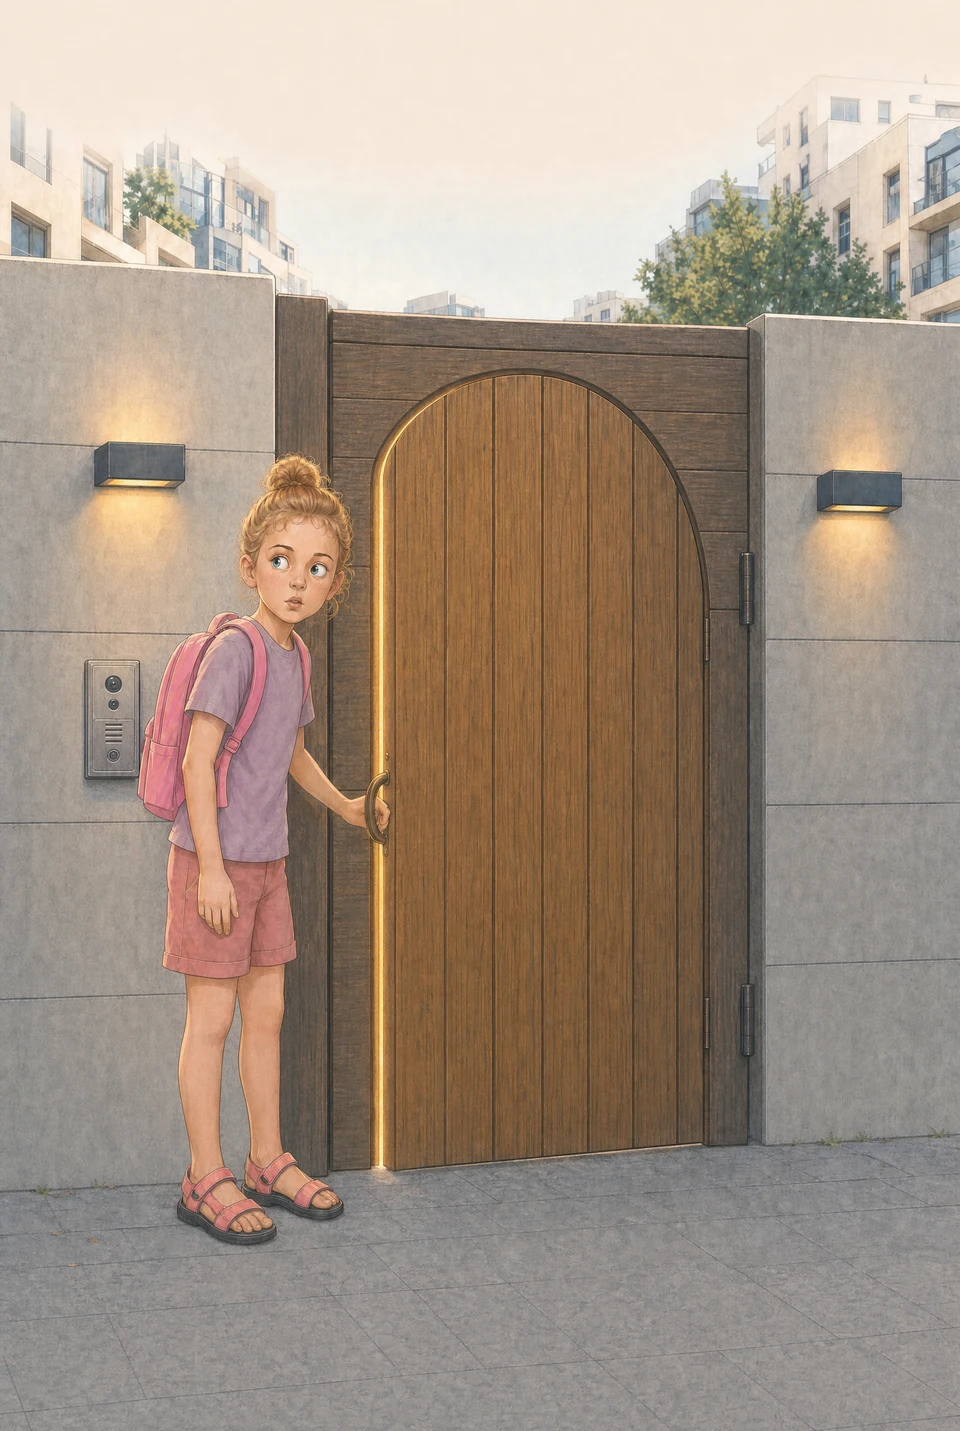
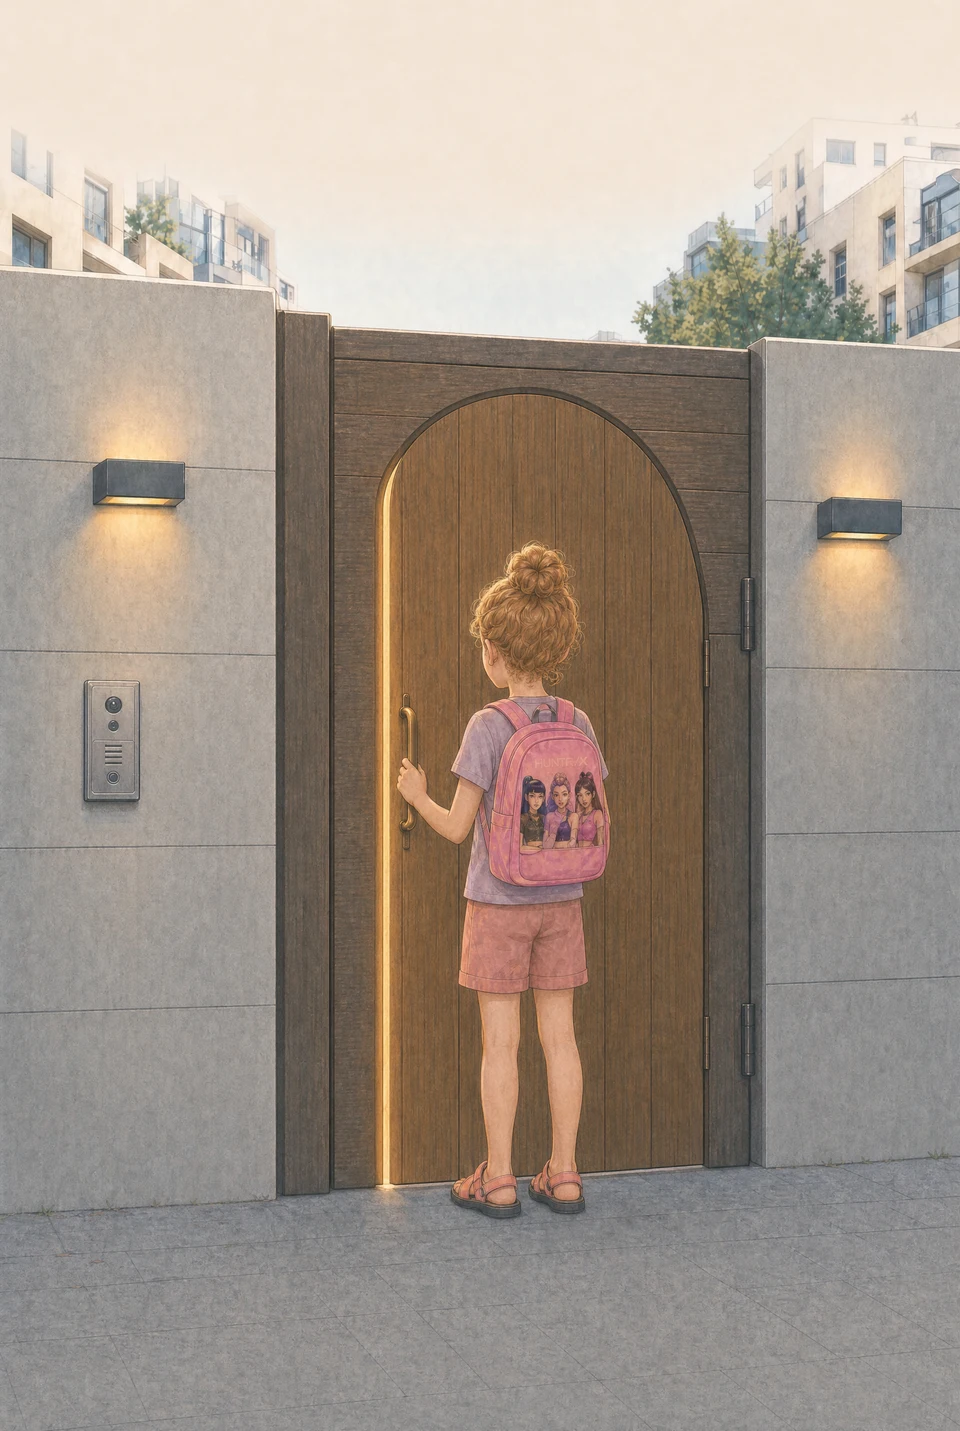
Fix Shir position and free-edge handle on pages 11 and 12

diff --git a/site/staging.html b/site/staging.html
@@ -1,1 +1,1 @@
-<!doctype html><html lang="en"><head><meta charset="utf-8"><meta name="robots" content="noindex"><meta name="viewport" content="width=device-width,initial-scale=1,viewport-fit=cover"><title>Draft Chapter 1 — Shir’s Secret staging</title><link rel="stylesheet" href="preview.css?v=7b6977281c"><script src="staging.js?v=a3d14497a1" defer></script><style>.placeholder{position:absolute;inset:42% 10% 18%;display:grid;place-items:center;border:1px dashed #9f9a86;color:#747d6a;font-family:Georgia,serif;font-style:italic}header select{max-width:45vw;font:inherit;background:#fff9ed;color:inherit;border:1px solid #bdb6a5;border-radius:8px;padding:6px}.copy{top:max(68px,8%);max-height:30%;overflow:auto}header{align-items:center}#page8 .copy,#page14 .copy{background:#fff8eeed;border-radius:14px;padding:10px 12px;box-shadow:0 3px 18px #453b2520}</style></head><body><main aria-label="Draft chapter reader"><header><a href="index.html">← Published book</a><label>DRAFT <select aria-label="Draft chapter"><option>Chapter 1 · The Little Bell</option></select></label></header><section class="leaf" id="page1" data-state="illustrated" style="background-image:url(assets/chapter1-01.webp?v=5cdf1d9239)" ><img src="assets/chapter1-01.webp?v=5cdf1d9239" width="960" height="1431" alt="Draft illustration for chapter 1 page 1" loading="eager"><div class="copy"><p>Today is my birthday.  <br>I am nine!  <br>And today, I can walk to school  <br>all by myself.</p></div></section><section class="leaf" id="page2" data-state="illustrated" style="background-image:url(assets/chapter1-02.webp?v=ac8312f8d1)" hidden><img src="assets/chapter1-02.webp?v=ac8312f8d1" width="960" height="1431" alt="Draft illustration for chapter 1 page 2" loading="lazy"><div class="copy"><p>Dad stands by the door.  <br>“Happy birthday, Shir!” he says.  <br>“Good luck today!”  <br>I smile. “Bye, Dad!”</p></div></section><section class="leaf" id="page3" data-state="illustrated" style="background-image:url(assets/chapter1-03.webp?v=c496ef8931)" hidden><img src="assets/chapter1-03.webp?v=c496ef8931" width="960" height="1431" alt="Draft illustration for chapter 1 page 3" loading="lazy"><div class="copy"><p>My pink bag is on my back.  <br>I know the way to school.  <br>Past the crosswalk. Past the tall buildings.  <br>I walk this way every day.</p></div></section><section class="leaf" id="page4" data-state="illustrated" style="background-image:url(assets/chapter1-04.webp?v=81d92725b7)" hidden><img src="assets/chapter1-04.webp?v=81d92725b7" width="960" height="1431" alt="Draft illustration for chapter 1 page 4" loading="lazy"><div class="copy"><p>But today, something is different.<br><em>Ding!</em><br>A tiny bell.</p></div></section><section class="leaf" id="page5" data-state="illustrated" style="background-image:url(assets/chapter1-05.webp?v=0c43506ffd)" hidden><img src="assets/chapter1-05.webp?v=0c43506ffd" width="960" height="1431" alt="Draft illustration for chapter 1 page 5" loading="lazy"><div class="copy"><p>I stop and look around.  <br>A car goes past.  <br>A woman walks her dog.  <br>Where is the bell?</p></div></section><section class="leaf" id="page6" data-state="illustrated" style="background-image:url(assets/chapter1-06.webp?v=f5b3ad705a)" hidden><img src="assets/chapter1-06.webp?v=f5b3ad705a" width="960" height="1431" alt="Draft illustration for chapter 1 page 6" loading="lazy"><div class="copy"><p>Then I see it.  <br>An old wooden door  <br>in the wall of a building.<br>That door was not here yesterday.</p></div></section><section class="leaf" id="page7" data-state="illustrated" style="background-image:url(assets/chapter1-07.webp?v=f6b8acb1d8)" hidden><img src="assets/chapter1-07.webp?v=f6b8acb1d8" width="960" height="1431" alt="Draft illustration for chapter 1 page 7" loading="lazy"><div class="copy"><p>People walk past the door.  <br>No one looks at it.  <br>But I cannot look away.<br>Where did it come from?</p></div></section><section class="leaf" id="page8" data-state="illustrated" style="background-image:url(assets/chapter1-08.webp?v=27a0ca5473)" hidden><img src="assets/chapter1-08.webp?v=27a0ca5473" width="960" height="1431" alt="Draft illustration for chapter 1 page 8" loading="lazy"><div class="copy"><p>I take one step closer.<br><em>Ding!</em><br>I jump.  <br>There it is again!</p></div></section><section class="leaf" id="page9" data-state="illustrated" style="background-image:url(assets/chapter1-09.webp?v=1fdce8df41)" hidden><img src="assets/chapter1-09.webp?v=1fdce8df41" width="960" height="1431" alt="Draft illustration for chapter 1 page 9" loading="lazy"><div class="copy"><p>I put my hand on the handle.  <br>I push.  <br>I pull.<br>The door will not open.</p></div></section><section class="leaf" id="page10" data-state="illustrated" style="background-image:url(assets/chapter1-10.webp?v=c6f46a5eed)" hidden><img src="assets/chapter1-10.webp?v=c6f46a5eed" width="960" height="1431" alt="Draft illustration for chapter 1 page 10" loading="lazy"><div class="copy"><p>“Well… happy birthday to me,” I say.<br><em>Click.</em><br>I am still holding the handle.  <br>But I am not moving.</p></div></section><section class="leaf" id="page11" data-state="illustrated" style="background-image:url(assets/chapter1-11.webp?v=44f6c301be)" hidden><img src="assets/chapter1-11.webp?v=44f6c301be" width="960" height="1431" alt="Draft illustration for chapter 1 page 11" loading="lazy"><div class="copy"><p>The door opens a little.<br><em>DING!</em><br>The bell is louder now.  <br>It is on the other side.</p></div></section><section class="leaf" id="page12" data-state="illustrated" style="background-image:url(assets/chapter1-12.webp?v=f846e16318)" hidden><img src="assets/chapter1-12.webp?v=f846e16318" width="960" height="1431" alt="Draft illustration for chapter 1 page 12" loading="lazy"><div class="copy"><p>I push the door wide.<br>A garden?<br>Here?  <br>Between all these buildings?</p></div></section><section class="leaf" id="page13" data-state="illustrated" style="background-image:url(assets/chapter1-13.webp?v=d86245c346)" hidden><img src="assets/chapter1-13.webp?v=d86245c346" width="960" height="1431" alt="Draft illustration for chapter 1 page 13" loading="lazy"><div class="copy"><p>I should go to school.  <br>I do not want to be late.  <br>I am not allowed to go in here.  <br>What if it is not safe?<br>Just one look…  <br>I step inside.</p></div></section><section class="leaf" id="page14" data-state="illustrated" style="background-image:url(assets/chapter1-14.webp?v=99d2d06a61)" hidden><img src="assets/chapter1-14.webp?v=99d2d06a61" width="960" height="1431" alt="Draft illustration for chapter 1 page 14" loading="lazy"><div class="copy"><p>Soft, golden light fills the garden.  <br>It shines on the green leaves.  <br>There is no sound from the street.<br>Even the air feels different.</p></div></section><section class="leaf" id="page15" data-state="illustrated" style="background-image:url(assets/chapter1-15.webp?v=477b259d0f)" hidden><img src="assets/chapter1-15.webp?v=477b259d0f" width="960" height="1431" alt="Draft illustration for chapter 1 page 15" loading="lazy"><div class="copy"><p>I walk past the green bushes.<br><em>Click. Click.</em><br>I stop.<br><em>Click. Click.</em><br>Something is behind that bush.</p></div></section><section class="leaf" id="page16" data-state="illustrated" style="background-image:url(assets/chapter1-16.webp?v=3a94af69ca)" hidden><img src="assets/chapter1-16.webp?v=3a94af69ca" width="960" height="1431" alt="Draft illustration for chapter 1 page 16" loading="lazy"><div class="copy"><p>I look over the bush.<br>An egg.  <br>An egg as big as my school bag!<br>Then the egg moves.</p></div></section><nav aria-label="Draft page navigation"><button id="prev" disabled>← Previous</button><span id="position" aria-live="polite">Page 1 of 16</span><button id="next">Next →</button></nav><p class="note" id="note">Draft chapter · awaiting owner release approval</p></main></body></html>
+<!doctype html><html lang="en"><head><meta charset="utf-8"><meta name="robots" content="noindex"><meta name="viewport" content="width=device-width,initial-scale=1,viewport-fit=cover"><title>Draft Chapter 1 — Shir’s Secret staging</title><link rel="stylesheet" href="preview.css?v=7b6977281c"><script src="staging.js?v=a3d14497a1" defer></script><style>.placeholder{position:absolute;inset:42% 10% 18%;display:grid;place-items:center;border:1px dashed #9f9a86;color:#747d6a;font-family:Georgia,serif;font-style:italic}header select{max-width:45vw;font:inherit;background:#fff9ed;color:inherit;border:1px solid #bdb6a5;border-radius:8px;padding:6px}.copy{top:max(68px,8%);max-height:30%;overflow:auto}header{align-items:center}#page8 .copy,#page14 .copy{background:#fff8eeed;border-radius:14px;padding:10px 12px;box-shadow:0 3px 18px #453b2520}</style></head><body><main aria-label="Draft chapter reader"><header><a href="index.html">← Published book</a><label>DRAFT <select aria-label="Draft chapter"><option>Chapter 1 · The Little Bell</option></select></label></header><section class="leaf" id="page1" data-state="illustrated" style="background-image:url(assets/chapter1-01.webp?v=5cdf1d9239)" ><img src="assets/chapter1-01.webp?v=5cdf1d9239" width="960" height="1431" alt="Draft illustration for chapter 1 page 1" loading="eager"><div class="copy"><p>Today is my birthday.  <br>I am nine!  <br>And today, I can walk to school  <br>all by myself.</p></div></section><section class="leaf" id="page2" data-state="illustrated" style="background-image:url(assets/chapter1-02.webp?v=ac8312f8d1)" hidden><img src="assets/chapter1-02.webp?v=ac8312f8d1" width="960" height="1431" alt="Draft illustration for chapter 1 page 2" loading="lazy"><div class="copy"><p>Dad stands by the door.  <br>“Happy birthday, Shir!” he says.  <br>“Good luck today!”  <br>I smile. “Bye, Dad!”</p></div></section><section class="leaf" id="page3" data-state="illustrated" style="background-image:url(assets/chapter1-03.webp?v=c496ef8931)" hidden><img src="assets/chapter1-03.webp?v=c496ef8931" width="960" height="1431" alt="Draft illustration for chapter 1 page 3" loading="lazy"><div class="copy"><p>My pink bag is on my back.  <br>I know the way to school.  <br>Past the crosswalk. Past the tall buildings.  <br>I walk this way every day.</p></div></section><section class="leaf" id="page4" data-state="illustrated" style="background-image:url(assets/chapter1-04.webp?v=81d92725b7)" hidden><img src="assets/chapter1-04.webp?v=81d92725b7" width="960" height="1431" alt="Draft illustration for chapter 1 page 4" loading="lazy"><div class="copy"><p>But today, something is different.<br><em>Ding!</em><br>A tiny bell.</p></div></section><section class="leaf" id="page5" data-state="illustrated" style="background-image:url(assets/chapter1-05.webp?v=0c43506ffd)" hidden><img src="assets/chapter1-05.webp?v=0c43506ffd" width="960" height="1431" alt="Draft illustration for chapter 1 page 5" loading="lazy"><div class="copy"><p>I stop and look around.  <br>A car goes past.  <br>A woman walks her dog.  <br>Where is the bell?</p></div></section><section class="leaf" id="page6" data-state="illustrated" style="background-image:url(assets/chapter1-06.webp?v=f5b3ad705a)" hidden><img src="assets/chapter1-06.webp?v=f5b3ad705a" width="960" height="1431" alt="Draft illustration for chapter 1 page 6" loading="lazy"><div class="copy"><p>Then I see it.  <br>An old wooden door  <br>in the wall of a building.<br>That door was not here yesterday.</p></div></section><section class="leaf" id="page7" data-state="illustrated" style="background-image:url(assets/chapter1-07.webp?v=f6b8acb1d8)" hidden><img src="assets/chapter1-07.webp?v=f6b8acb1d8" width="960" height="1431" alt="Draft illustration for chapter 1 page 7" loading="lazy"><div class="copy"><p>People walk past the door.  <br>No one looks at it.  <br>But I cannot look away.<br>Where did it come from?</p></div></section><section class="leaf" id="page8" data-state="illustrated" style="background-image:url(assets/chapter1-08.webp?v=27a0ca5473)" hidden><img src="assets/chapter1-08.webp?v=27a0ca5473" width="960" height="1431" alt="Draft illustration for chapter 1 page 8" loading="lazy"><div class="copy"><p>I take one step closer.<br><em>Ding!</em><br>I jump.  <br>There it is again!</p></div></section><section class="leaf" id="page9" data-state="illustrated" style="background-image:url(assets/chapter1-09.webp?v=1fdce8df41)" hidden><img src="assets/chapter1-09.webp?v=1fdce8df41" width="960" height="1431" alt="Draft illustration for chapter 1 page 9" loading="lazy"><div class="copy"><p>I put my hand on the handle.  <br>I push.  <br>I pull.<br>The door will not open.</p></div></section><section class="leaf" id="page10" data-state="illustrated" style="background-image:url(assets/chapter1-10.webp?v=c6f46a5eed)" hidden><img src="assets/chapter1-10.webp?v=c6f46a5eed" width="960" height="1431" alt="Draft illustration for chapter 1 page 10" loading="lazy"><div class="copy"><p>“Well… happy birthday to me,” I say.<br><em>Click.</em><br>I am still holding the handle.  <br>But I am not moving.</p></div></section><section class="leaf" id="page11" data-state="illustrated" style="background-image:url(assets/chapter1-11.webp?v=60446e5dd0)" hidden><img src="assets/chapter1-11.webp?v=60446e5dd0" width="960" height="1431" alt="Draft illustration for chapter 1 page 11" loading="lazy"><div class="copy"><p>The door opens a little.<br><em>DING!</em><br>The bell is louder now.  <br>It is on the other side.</p></div></section><section class="leaf" id="page12" data-state="illustrated" style="background-image:url(assets/chapter1-12.webp?v=6b449817c8)" hidden><img src="assets/chapter1-12.webp?v=6b449817c8" width="960" height="1431" alt="Draft illustration for chapter 1 page 12" loading="lazy"><div class="copy"><p>I push the door wide.<br>A garden?<br>Here?  <br>Between all these buildings?</p></div></section><section class="leaf" id="page13" data-state="illustrated" style="background-image:url(assets/chapter1-13.webp?v=d86245c346)" hidden><img src="assets/chapter1-13.webp?v=d86245c346" width="960" height="1431" alt="Draft illustration for chapter 1 page 13" loading="lazy"><div class="copy"><p>I should go to school.  <br>I do not want to be late.  <br>I am not allowed to go in here.  <br>What if it is not safe?<br>Just one look…  <br>I step inside.</p></div></section><section class="leaf" id="page14" data-state="illustrated" style="background-image:url(assets/chapter1-14.webp?v=99d2d06a61)" hidden><img src="assets/chapter1-14.webp?v=99d2d06a61" width="960" height="1431" alt="Draft illustration for chapter 1 page 14" loading="lazy"><div class="copy"><p>Soft, golden light fills the garden.  <br>It shines on the green leaves.  <br>There is no sound from the street.<br>Even the air feels different.</p></div></section><section class="leaf" id="page15" data-state="illustrated" style="background-image:url(assets/chapter1-15.webp?v=477b259d0f)" hidden><img src="assets/chapter1-15.webp?v=477b259d0f" width="960" height="1431" alt="Draft illustration for chapter 1 page 15" loading="lazy"><div class="copy"><p>I walk past the green bushes.<br><em>Click. Click.</em><br>I stop.<br><em>Click. Click.</em><br>Something is behind that bush.</p></div></section><section class="leaf" id="page16" data-state="illustrated" style="background-image:url(assets/chapter1-16.webp?v=3a94af69ca)" hidden><img src="assets/chapter1-16.webp?v=3a94af69ca" width="960" height="1431" alt="Draft illustration for chapter 1 page 16" loading="lazy"><div class="copy"><p>I look over the bush.<br>An egg.  <br>An egg as big as my school bag!<br>Then the egg moves.</p></div></section><nav aria-label="Draft page navigation"><button id="prev" disabled>← Previous</button><span id="position" aria-live="polite">Page 1 of 16</span><button id="next">Next →</button></nav><p class="note" id="note">Draft chapter · awaiting owner release approval</p></main></body></html>

diff --git a/HANDOFF.md b/HANDOFF.md
@@ -138,3 +138,5 @@ Early/home scenes were corrected to remove reference-induced secret gates; page1
 Continuity pass completed: selected ten replacements, removed adults on7, narrow crack11, page13 now hesitation/entry and14 garden exploration. Final15/16 show deeper bushes with gate obscured; reverse-angle generated attempts rejected for malformed architecture. Reference v2 removes garden vent. Source renders recorded in chapter status.json; workflows retained, raw alternatives archived. Remaining minor hardware scale/hinge-count/wardrobe-detail variation documented in continuity-review.md; do not call exact continuity solved. Owner release approval still pending.
 
 Owner follow-up: pages11/12 still have wrong hand/pull geometry. New two-page Shirbook_Door_Contact batch submitted; expected contact-fix-11/12 outputs. Page10 copy changed from “But I did not turn it” to “But I am not moving” because pull is fixed. Render review and staging deployment pending.
+
+Contact correction completed: page11 selected contact-fix-11 (Shir in front of nearly closed inward door); page12 selected contact12-local (pull at free edge, largely occluded by Shir). Rejected contact-fix-12 flipped the leaf to left jamb. Page10 now “But I am not moving.” Agent reviewed, owner approval pending. All raw attempts archived.
